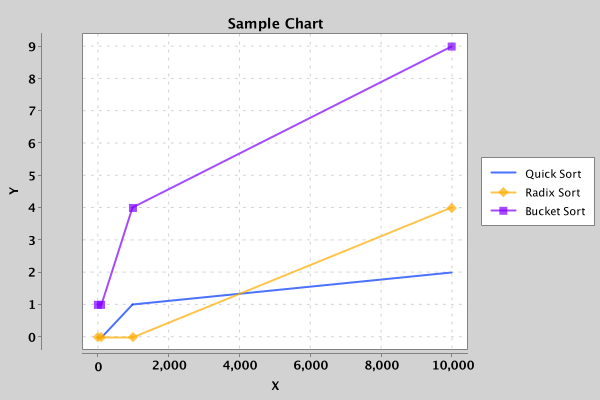
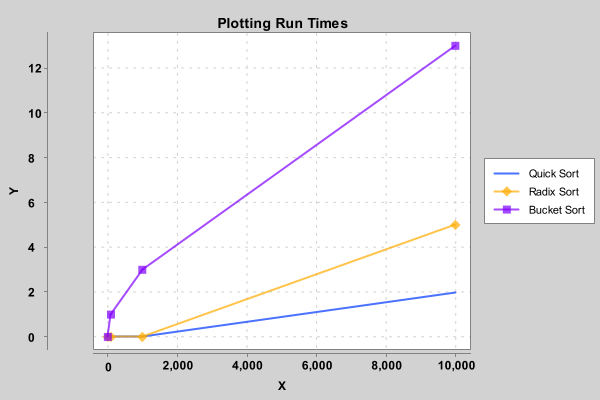
updated code files and readme

diff --git a/xchart-demo/src/main/java/org/knowm/xchart/demo/sortingComparison.java b/xchart-demo/src/main/java/org/knowm/xchart/demo/sortingComparison.java
@@ -13,7 +13,6 @@ import org.knowm.xchart.QuickChart;
 import org.knowm.xchart.SwingWrapper;
 import org.knowm.xchart.XYChart;
 import org.knowm.xchart.BitmapEncoder.BitmapFormat;
-//import org.knowm.xchart;
 
 public class sortingComparison {
     
@@ -46,72 +45,18 @@ public class sortingComparison {
             yDataB[i-1] = bucketSortTime;
 
         }
-        // sortingComparison sortComp = new sortingComparison();
-        // int[] arr = generateRandomArray(10, 0, 100);
-        // int[] arr2 = generateRandomArray(100, 0, 1000);
-        // int x = measureSortTime(arr, "Quick Sort", quickSort(arr, arr[0], arr[(arr.length-1)]));
-        // double x = 10;
-        // double x2 = 100;
-        // int x2 = measureSortTime(arr, "Radix Sort", countingSort(arr, arr[0], arr[(arr.length-1)]));
-        // int y2 = 10;
-        // List<Integer> list=new ArrayList<>();
-        // for(int i=0;i<arr.length;i++)
-        // {
-        //     list.add(arr[i]);
-        // }
-        // List<Integer> list2=new ArrayList<>();
-        // for(int i=0;i<arr2.length;i++)
-        // {
-        //     list2.add(arr2[i]);
-        // }
-        // int x3 = measureSortTime(arr, "Radix Sort", bucketSort(arr, (Collections.max(list)-Collections.min(list))/arr.length));
-        // int y3 = 10;
-
-
-        // double quickSortTime = measureSortTime(arr, "Quick Sort", (a) -> quickSort(a, 0, a.length - 1));
-        // double radixSortTime = measureSortTime(arr, "Radix Sort", (a) -> radixSort(a, 10));
-        // double bucketSortTime = measureSortTime(arr, "Bucket Sort", (a) -> bucketSort(a, (Collections.max(list)-Collections.min(list))/arr.length));
-
-        // double quickSortTime2 = measureSortTime(arr2, "Quick Sort", (a) -> quickSort(a, 0, a.length - 1));
-        // double radixSortTime2 = measureSortTime(arr2, "Radix Sort", (a) -> radixSort(a, 10));
-        // double bucketSortTime2 = measureSortTime(arr2, "Bucket Sort", (a) -> bucketSort(a, (Collections.max(list)-Collections.min(list))/arr.length));
-
-
-
-
-        // double[] xDataQ = new double[] {x, x2};
-        // double[] yDataQ = new double[] {quickSortTime, quickSortTime2};
-
-        // double[] xDataR = new double[] {x, x2};
-        // double[] yDataR = new double[] {radixSortTime, radixSortTime2};
-
-        // double[] xDataB = new double[] {x, x2};
-        // double[] yDataB = new double[] {bucketSortTime, bucketSortTime2};
-
-
-        // double[] xData2 = new double[] { 0.0, 1.0, 2.0 };
-        // double[] yData2 = new double[] { 1.0, 2.0, 0.0 };
-
-        XYChart chart = QuickChart.getChart("Sample Chart", "X", "Y", "Quick Sort", xDataQ, yDataQ);
+  
+        XYChart chart = QuickChart.getChart("Plotting Run Times", "X", "Y", "Quick Sort", xDataQ, yDataQ);
         // add other line to graph
 
-        // chart.addSeries("Quick Sort", xDataQ, yDataQ);
         chart.addSeries("Radix Sort", xDataR, yDataR);
         chart.addSeries("Bucket Sort", xDataB, yDataB);
-
 
         // Show it
         new SwingWrapper(chart).displayChart();
 
         // Save it
         BitmapEncoder.saveBitmap(chart, "./Sample_Chart", BitmapFormat.PNG);
-        
-        //CategoryChart chart = new CategoryChartBuilder().width(800).height(600).title("Sorting Comparison").xAxisTitle("Algorithm").yAxisTitle("Time (ms)").build();
-        //chart.addSeries("Sort Times", new String[] {"Quick Sort", "Radix Sort", "Bucket Sort"}, new Long[] {quickSortTime, radixSortTime, bucketSortTime});
-        
-        //new SwingWorker<>(chart).displayChart();
-
-        // add some lines here to test and probabaly print each of the different sort methods
     }
     
     public static long measureSortTime(int[] arr, String sortName, SortFunction sortFunction) {
@@ -210,15 +155,6 @@ public class sortingComparison {
           countingSort(array, size, place);
       }
     
-   
-      // Bucketsort implementation
-
-    // public static void swap(int[] arr, int i, int j) {
-    //     int temp = arr[i];
-    //     arr[i] = arr[j];
-    //     arr[j] = temp;
-    // }
-    // (maxValue - minValue) / n
     public static void bucketSort(int[] array, int bucketSize) {
         if (array.length == 0) {
             return;

diff --git a/xchart-demo/src/main/java/org/knowm/xchart/demo/README.md b/xchart-demo/src/main/java/org/knowm/xchart/demo/README.md
@@ -1,0 +1,24 @@
+Authors: Cecelia Kaufmann and Francesca Brown
+Our project: Our project compares QuickSort, BucketSort, and RadixSort algorithms
+to see which of the different sorts have the quickest runtime across arrays of various 
+sizes. Then, we used Xchart (a graphing download) to visually respresent the runtime
+comparisons.
+
+These are the libraries are included to run our code. The code needs to be run in this folder/Github repository
+for the Xchart outputs to work. Here are the packages/ libraries needed to be included: 
+
+package org.knowm.xchart.demo;
+import java.util.*;
+import java.util.List;
+import java.awt.*;  
+import javax.swing.*;  
+import java.awt.geom.*;  
+
+import java.io.IOException;
+
+
+import org.knowm.xchart.BitmapEncoder;
+import org.knowm.xchart.QuickChart;
+import org.knowm.xchart.SwingWrapper;
+import org.knowm.xchart.XYChart;
+import org.knowm.xchart.BitmapEncoder.BitmapFormat;
